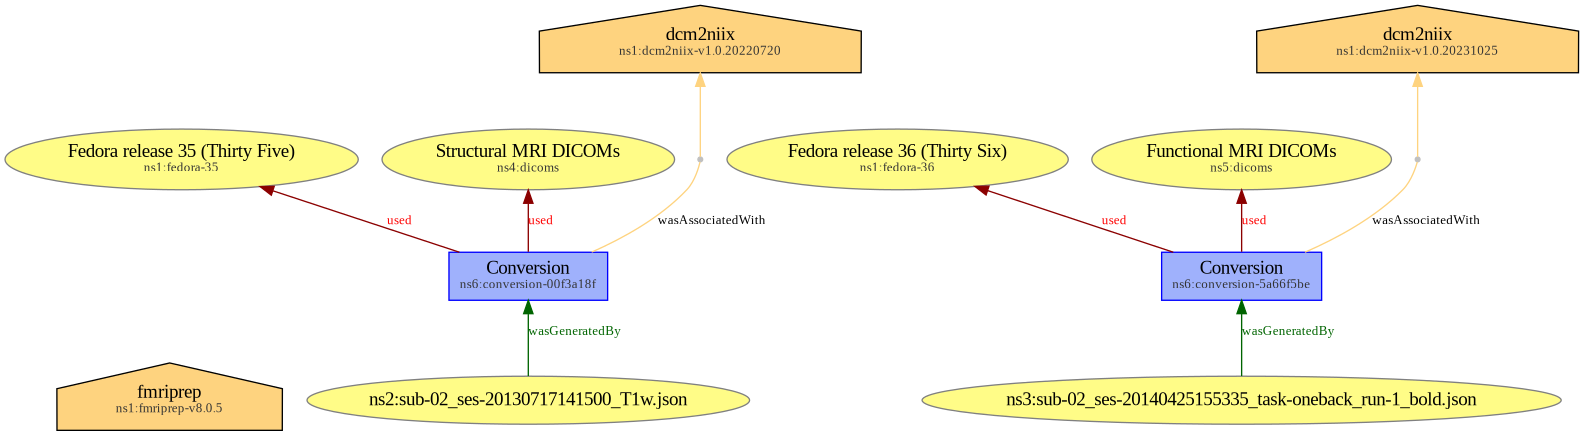
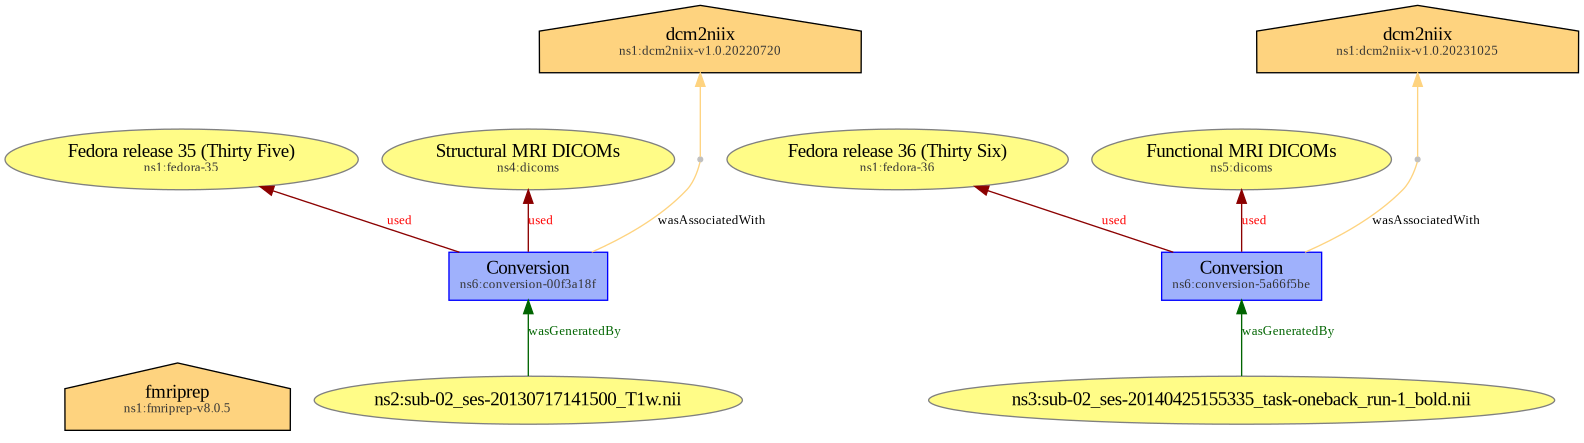
Issue with .nii files not described in provenance

Changed region(s): [[0.0309, 0.8217, 0.464, 0.9684], [0.5568, 0.851, 0.9899, 0.9684], [0.464, 0.8804, 0.4949, 0.9097]]

diff --git a/examples/dcm2niix/code/merge_prov.py b/examples/dcm2niix/code/merge_prov.py
@@ -4,6 +4,7 @@
 """ Merge available prov JSON files into one RDF graph """
 
 import json
+from pathlib import Path
 
 # List of available prov files
 prov_soft_files = [
@@ -43,15 +44,22 @@ for prov_file in prov_env_files:
 
 # Parse Sidecar files
 for sidecar_file in sidecar_files:
+	# Identify data file(s) associated with the sidecar
+	sidecar_filename = Path(sidecar_file)
+	data_files = Path('').glob(f'{sidecar_filename.with_suffix("")}.*')
+	data_files = [str(f) for f in list(data_files) if str(sidecar_filename) not in str(f)]
+
+	# Write provenance
 	with open(sidecar_file, encoding = 'utf-8') as file:
 		data = json.load(file)
 		if 'GeneratedBy' in data:
 			activity = data['GeneratedBy']
 			base_provenance['Records']['Activities'].append(activity)
-			base_provenance['Records']['Entities'].append({
-				"Id": f"bids::{sidecar_file}",
-				"GeneratedBy": activity["Id"]
-				})
+			for data_file in data_files:
+				base_provenance['Records']['Entities'].append({
+					"Id": f"bids::{data_file}",
+					"GeneratedBy": activity["Id"]
+					})
 
 # Write jsonld
 with open('prov/merged/prov-dcm2niix.prov.jsonld', 'w', encoding = 'utf-8') as file:
